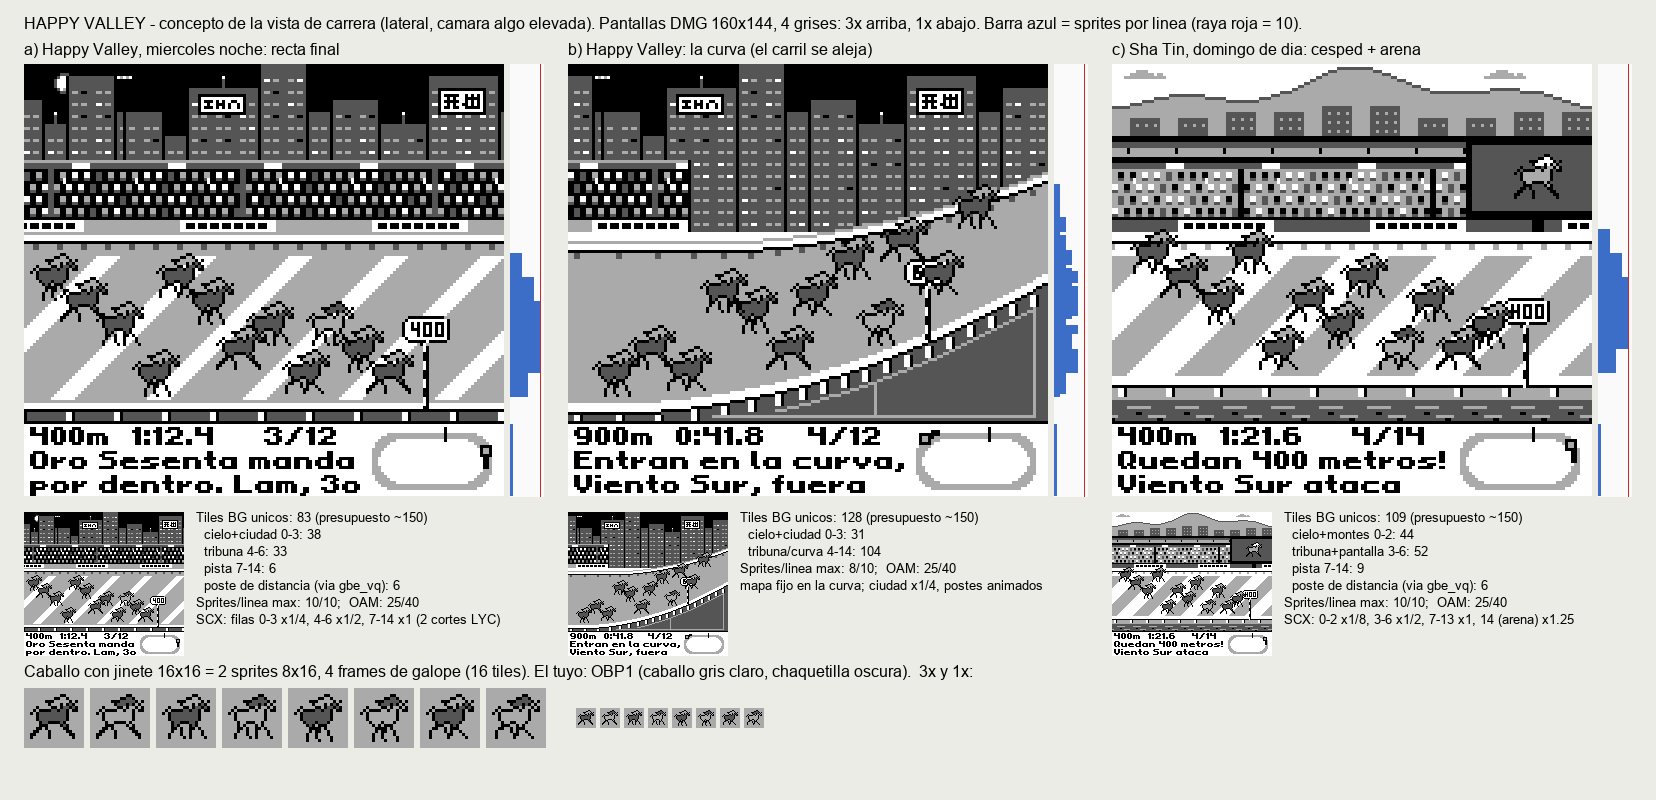
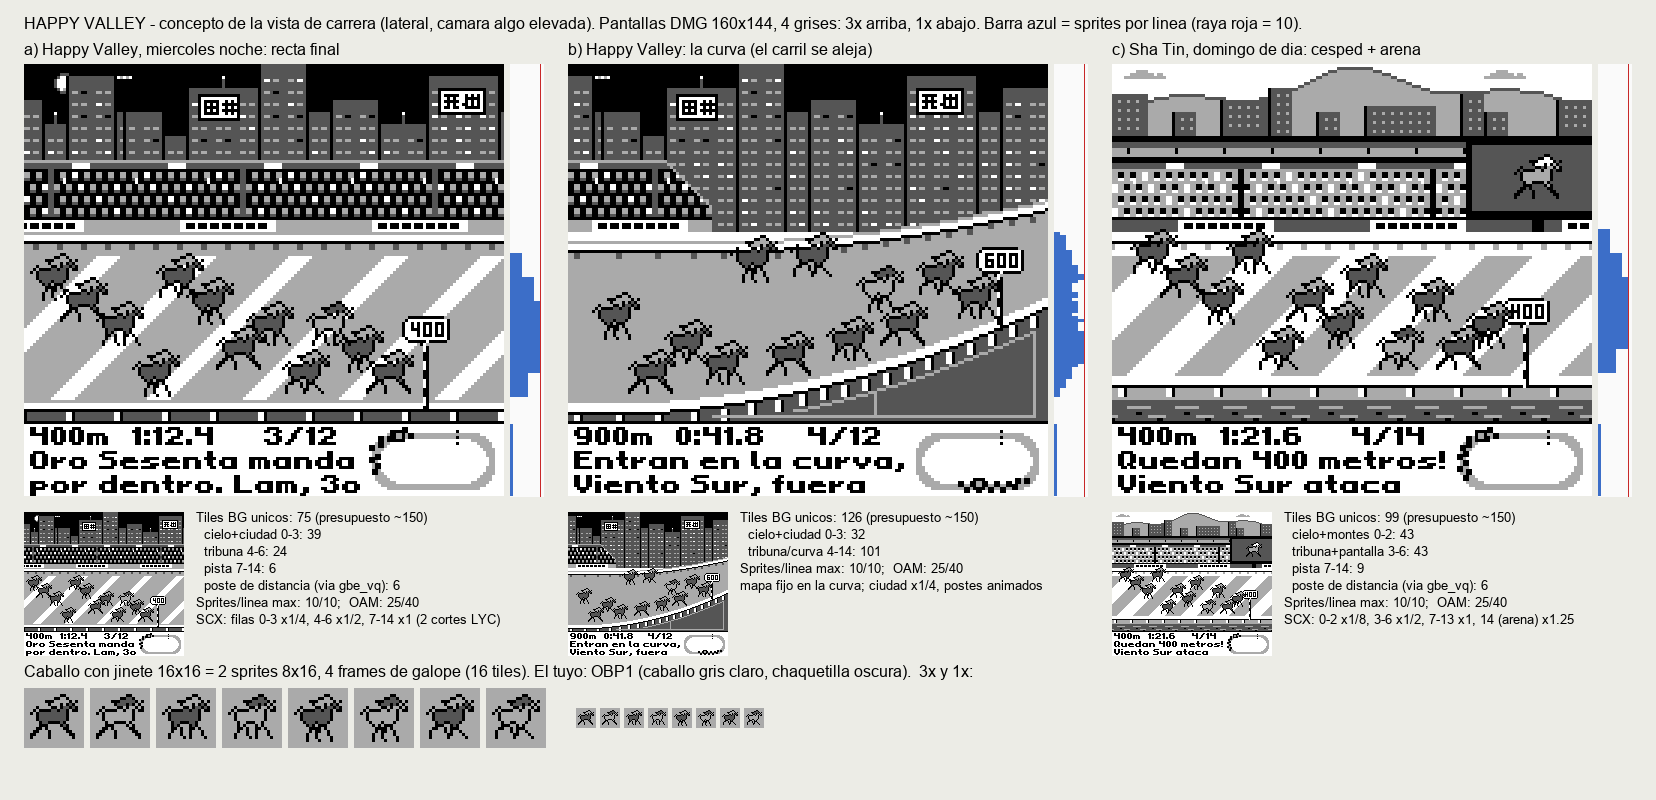
gb.py: avisa si un agente guarda su memoria fuera de .claude/agent-memory

diff --git a/harness/gb.py b/harness/gb.py
@@ -216,9 +216,22 @@ def tileset_labels(gdir, mt_file):
     die(f"{mt_file}: tileset '{ts}' not found")
 
 
+def stray_agent_memory():
+    """Subagents write their memory relative to their working directory: a '.claude' folder with files
+    under games/ or harness/ is memory saved in the wrong place (happened 3 times in faro/mazmorra/
+    happyvalley). The real place is .claude/agent-memory/<agent>/."""
+    for base in (ROOT / "games", ROOT / "harness"):
+        for d in base.rglob(".claude"):
+            files = [f for f in d.rglob("*") if f.is_file()]
+            if files:
+                print(f"WARNING: agent memory in the wrong place: {d} ({len(files)} files) - "
+                      f"move it to {ROOT / '.claude' / 'agent-memory'}")
+
+
 def build(name):
     if not LCC.exists():
         die("GBDK not found, run: python harness/gb.py setup")
+    stray_agent_memory()
     gdir = game_dir(name)
     cfg = load_config(gdir)
     sources = sorted((gdir / "src").rglob("*.c")) + sorted((gdir / "src").rglob("*.s"))
